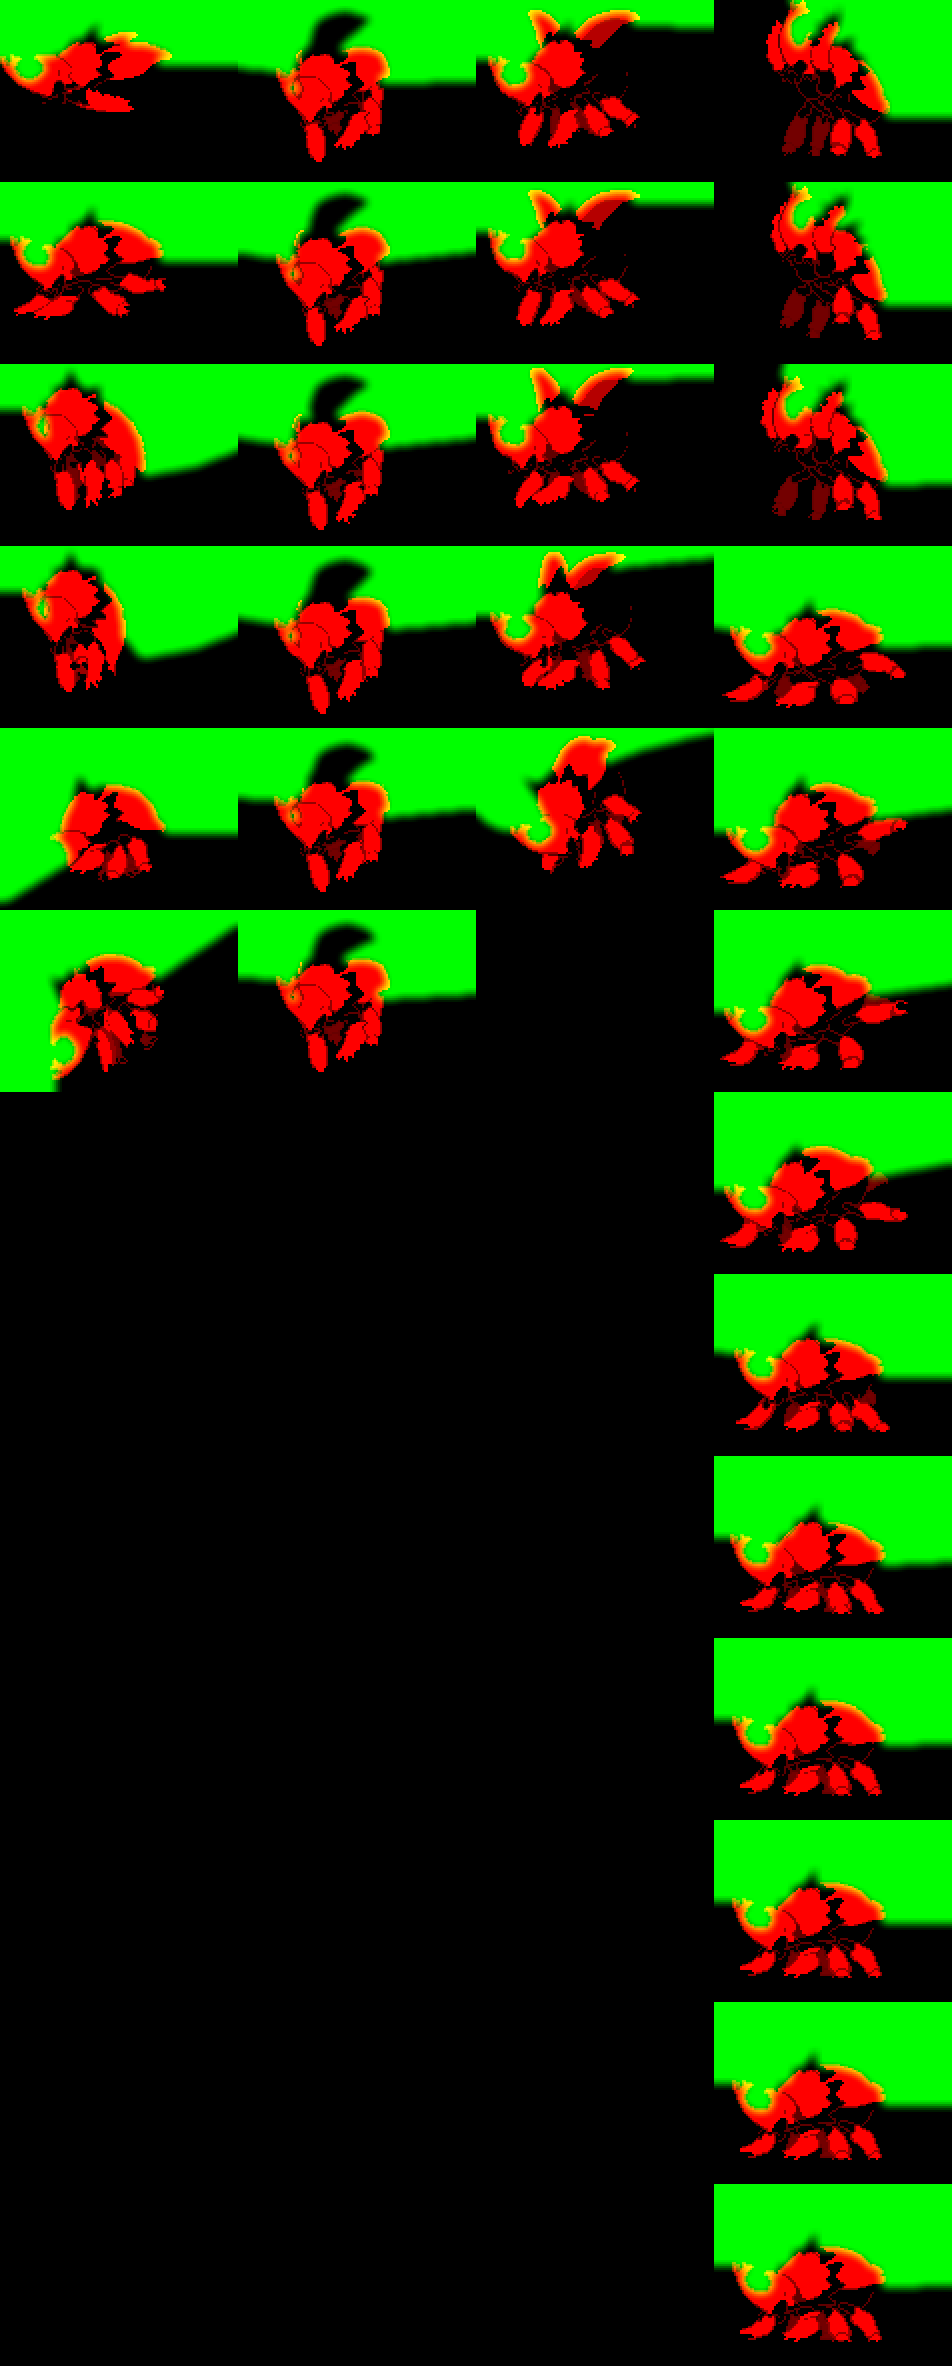
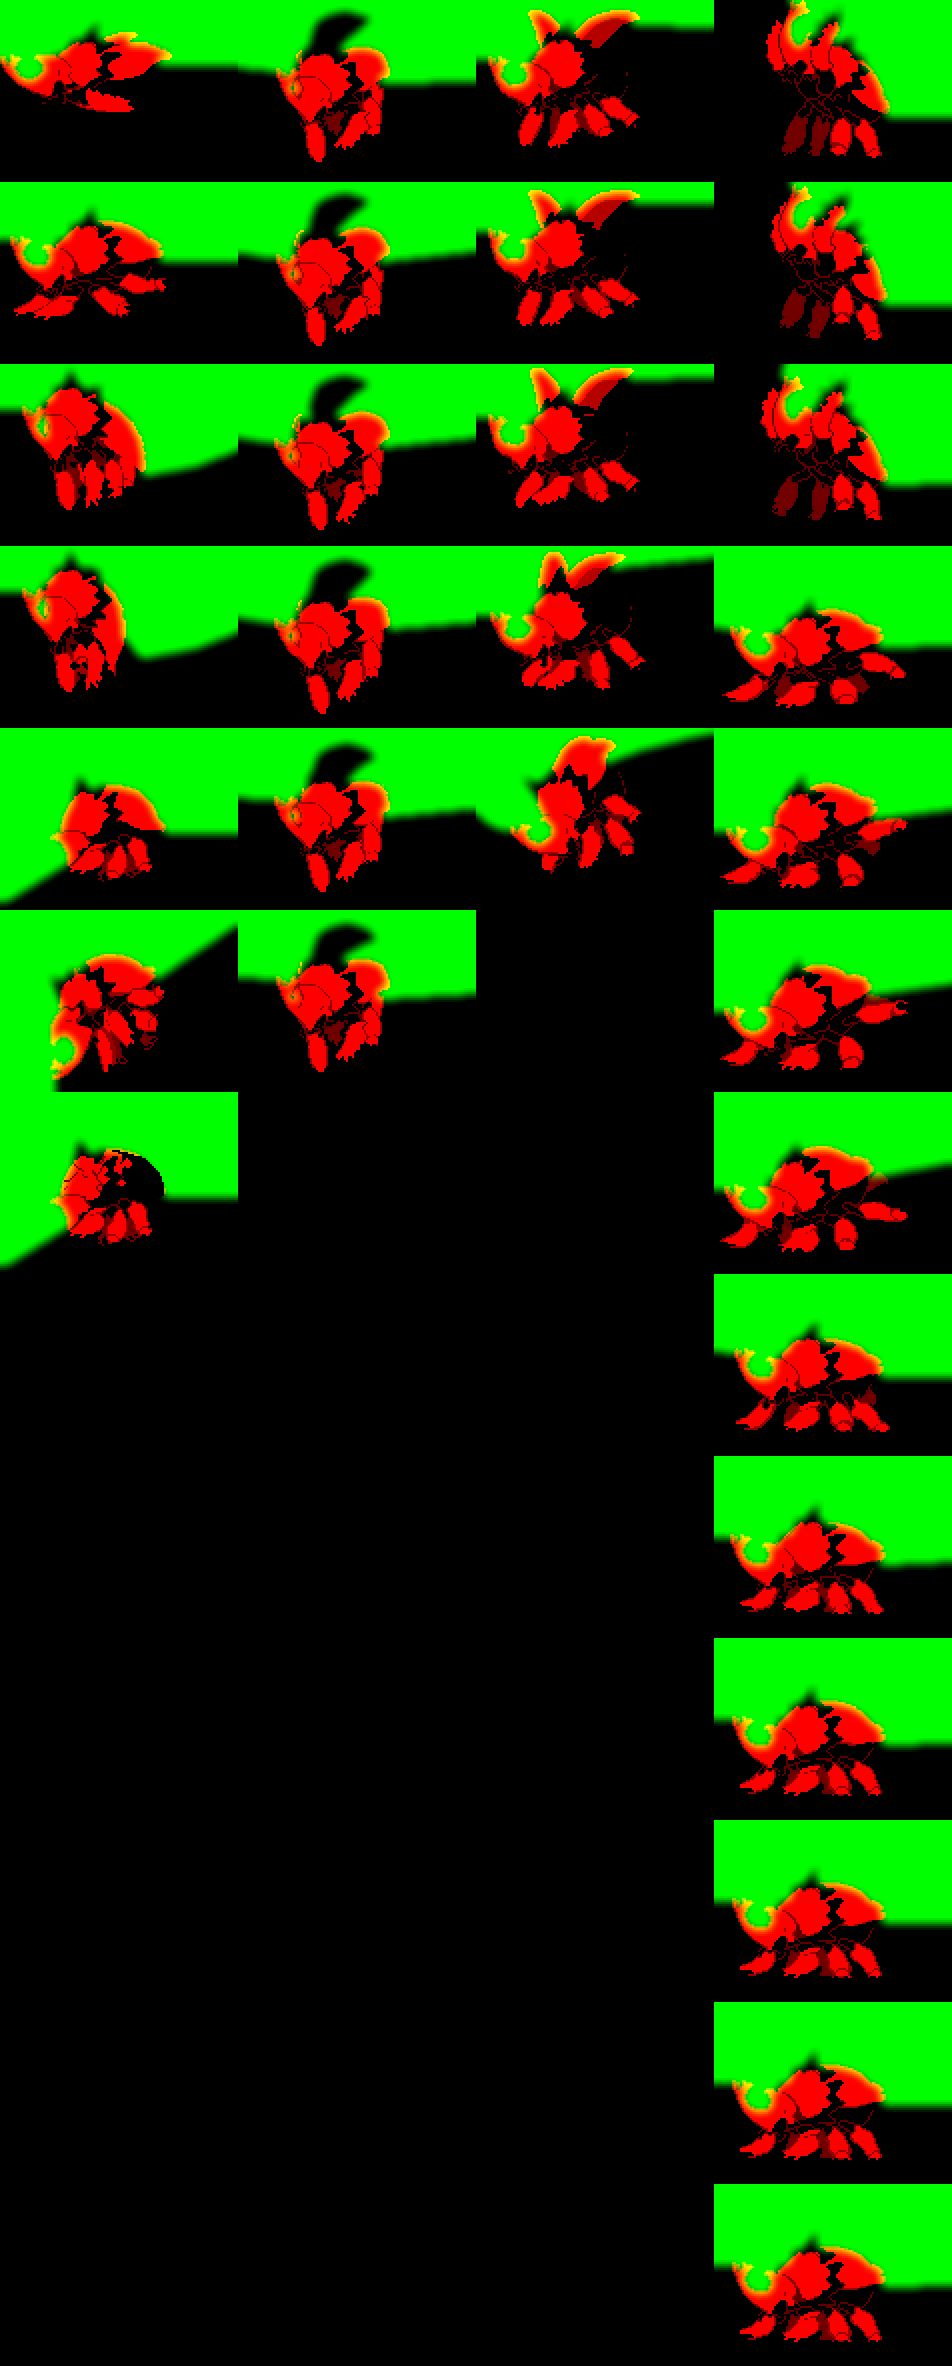
start over

Changed region(s): [[0.0, 0.4628, 0.2742, 0.5554]]

diff --git a/Content/Desert/ScarabBoss/Boss/Scarabeus.DuoFight.cs b/Content/Desert/ScarabBoss/Boss/Scarabeus.DuoFight.cs
@@ -7,6 +7,7 @@ using SpiritReforged.Common.Particle;
 using SpiritReforged.Content.Particles;
 using Terraria.Audio;
 using Terraria.DataStructures;
+using Terraria.Graphics.CameraModifiers;
 
 namespace SpiritReforged.Content.Desert.ScarabBoss.Boss;
 
@@ -110,6 +111,9 @@ public partial class Scarabeus : ModNPC
 			case "doBurnParticles":
 				((args[2] as NPC).ModNPC as Scarabeus).DoBurnParticles((Vector2)args[3], (Vector2)args[4], (float)args[5]);
 				return true;
+			case "startJoustSwoop":
+				((args[2] as NPC).ModNPC as Scarabeus).DuoFightStartAirDash((Vector2)args[3]);
+				return true;
 		}
 
 		return null;
@@ -207,7 +211,9 @@ public partial class Scarabeus : ModNPC
 	public float DuoFightTakeoff(ref bool retarget)
 	{
 		retarget = false;
-		bool jumped = currentFrame == new Point(0, 2) && Profile == PhaseTwoProfile;
+		bool jumped = (currentFrame == new Point(0, 2) || currentFrame == new Point(0, 3)) && Profile == PhaseTwoProfile;
+		bool jumpingIntoLightbulb = (bool)CrossMod.Fables.Instance.Call("spiritCrossmod.kaiju", "shouldTakeoffIntoLightbulb", scourgeFightManager);
+		float towardsFightManager = (scourgeFightManager.NPC.Center.X - NPC.Center.X) < 0 ? -1 : 1;
 
 		if (!jumped)
 		{
@@ -240,9 +246,14 @@ public partial class Scarabeus : ModNPC
 
 				SoundEngine.PlaySound(SoundID.DD2_MonkStaffSwing, NPC.Center);
 
-				SetFrame(0, 2, PhaseTwoProfile);
+				SetFrame(0, jumpingIntoLightbulb ? 2 : 3, PhaseTwoProfile);
 				NPC.velocity.Y -= 25;
-				NPC.velocity.X += NPC.direction * 5;
+
+				if (jumpingIntoLightbulb)
+					NPC.velocity.X += NPC.direction * 5;
+				else
+					NPC.velocity.X += towardsFightManager * 10;
+
 				Counter = 0;
 				NPC.noTileCollide = true;
 				NPC.noGravity = true;
@@ -252,6 +263,8 @@ public partial class Scarabeus : ModNPC
 		{
 			NPC.velocity.Y *= 0.95f;
 			trailOpacity = EaseFunction.EaseQuinticIn.Ease(1f - Counter / 20f);
+			SetFrame(0, jumpingIntoLightbulb ? 2 : 3, PhaseTwoProfile);
+
 			if (Counter >= 20)
 			{
 				if (FightingDScourge)
@@ -479,6 +492,173 @@ public partial class Scarabeus : ModNPC
 	public void DuoFightPukesplosion()
 	{
 		CrossMod.Fables.Instance.Call("spiritCrossmod.kaiju", "pukesplosion", scourgeFightManager);
+	}
+	#endregion
+
+	#region Joust Dash
+	public float DuoFightFlyFollowLeader(ref bool retarget)
+	{
+		NPC.target = scourgeFightManager.NPC.target;
+		NPC.noTileCollide = true;
+		NPC.noGravity = true;
+		NPC.rotation = NPC.velocity.X * 0.05f;
+		NPC.direction = Math.Sign(Target.Center.X - NPC.Center.X);
+		wingFrameCounter += (18f / 60f); //18 fps for wings specifically
+		UpdateFrame(0, 12, SimulatedProfile);
+
+		float speedup = Utils.GetLerpValue(40f, 100f, NPC.Distance(scourgeFightManager.NPC.Center), true);
+		float movespeed = MathHelper.Lerp(4f, 16f + (Counter / 40f) * 20f, speedup);
+		float acceleration = MathHelper.Lerp(0.03f, 0.08f, speedup);
+
+		Vector2 toLeader = (scourgeFightManager.NPC.Center - NPC.Center).SafeNormalize(Vector2.Zero) * movespeed;
+		NPC.velocity = Vector2.Lerp(NPC.velocity, toLeader, acceleration);
+
+		if (Math.Sign(NPC.velocity.X) == Math.Sign(NPC.Center.X - scourgeFightManager.NPC.Center.X))
+			NPC.velocity *= 0.97f;
+
+		NPC.velocity.X = MathHelper.Clamp(NPC.velocity.X, -18, 18);
+		NPC.velocity.Y = MathHelper.Clamp(NPC.velocity.Y, -18, 18);
+		return 1f;
+	}
+
+	public float DuoFightFlyDownToGround(ref bool retarget)
+	{
+		retarget = false;
+
+		switch (ExtraMemory)
+		{
+			//Flying down to the ground
+			case 0:
+				NPC.noTileCollide = true;
+				NPC.noGravity = true;
+				NPC.rotation = NPC.velocity.X * 0.03f;
+				wingFrameCounter += (18f / 60f); //18 fps for wings specifically
+				UpdateFrame(0, 12, SimulatedProfile);
+
+				NPC.velocity.X *= 0.98f;
+				NPC.velocity.Y += 0.6f;
+				if (NPC.velocity.Y > 12)
+					NPC.velocity.Y = 12;
+
+				if (OnTopOfTiles && NPC.velocity.Y >= 0)
+				{
+					ShiftUpToFloorLevel();
+					ExtraMemory = 1;
+					NPC.rotation = 0;
+					NPC.velocity.Y = 0;
+					NPC.velocity.X *= 0.6f;
+					SetFrame(6, 0, PhaseOneProfile);
+				}
+
+				break;
+			case 1:
+				retarget = true;
+				NPC.FaceTarget();
+
+				NPC.noTileCollide = false;
+				NPC.noGravity = false;
+
+				NPC.rotation = 0;
+				NPC.velocity.Y = 0;
+				NPC.velocity.X *= 0.85f;
+				if (UpdateFrame(6, 12, PhaseOneProfile, false) == FrameState.Stopped)
+					return GoBackToIdle();
+				break;
+		}
+
+		return 1f;
+	}
+
+	public void DuoFightStartAirDash(Vector2 dashTarget)
+	{
+		NPC.netUpdate = true;
+		CurrentState = AIState.SwoopDash;
+		ExtraMemory = 1;
+		Counter = 0f;
+		NPC.direction = (dashTarget.X - NPC.Center.X) < 0 ? -1 : 1;
+
+		//We do some funny buisness and use an arc trajectory and then flip the gravity around, so instead of doing ballistics up it does ballistics down. haha
+		float distToTargetX = (dashTarget.X - NPC.Center.X);
+		float targetHeight = FindGroundFromPositionIgnorePlatforms(dashTarget).Y;
+
+		//Cant go too low
+		targetHeight = Math.Min(targetHeight, dashTarget.Y + 160);
+
+		Vector2 ballisticTarget = new Vector2(dashTarget.X , targetHeight);
+		if (Math.Abs(distToTargetX) < 200)
+			ballisticTarget.X += 200 * NPC.direction;
+
+		//Flip target upside down
+		ballisticTarget.Y = (ballisticTarget.Y - NPC.Center.Y) * -1 + NPC.Center.Y;
+		if (ballisticTarget.Y >= NPC.Center.Y - 100)
+			ballisticTarget.Y = NPC.Center.Y - 100;
+
+		NPC.velocity = ArcVelocityHelper.GetArcVel(NPC.Center, ballisticTarget, 0.6f);
+
+		NPC.velocity.Y *= -1;
+		if (Math.Abs(NPC.velocity.X) < 9)
+			NPC.velocity.X = (NPC.velocity.X < 0 ? -1 : 1) * 9;
+	}
+	#endregion
+
+	#region Roll -> Hit Scourge -> Bounce ground pounds
+	public void DuoFightSimulateRoll(float rollSpeed)
+	{
+		Vector2 simulatedRollPosition = NPC.Center;
+		Vector2 simulatedVelocity = NPC.velocity;
+		Vector2 simulatedTargetPosition = Target.Center;
+		Vector2 simulatedTargetVelocity = Target.velocity;
+		float targetReachTime = 0f;
+
+		for (int i = 0; i < 300; i++)
+		{
+			float npcTopY = simulatedRollPosition.Y - NPC.height / 2f;
+			float npcBottomY = simulatedRollPosition.Y + NPC.height / 2f;
+
+			float interpolant = 0f;
+			float dist = Math.Abs(simulatedTargetPosition.X - simulatedRollPosition.X);
+			if (dist > 300f)
+				interpolant = 1f;
+			else if (dist > 100f)
+				interpolant = (dist - 100f) / 200f;
+
+			float adjustedRollSpeed = rollSpeed * MathHelper.Lerp(1f, 1.5f, interpolant);
+
+			simulatedVelocity.X = MathHelper.Lerp(simulatedVelocity.X, NPC.direction * adjustedRollSpeed, 0.1f);
+			float floorHeight = FindGroundFromPositionIgnorePlatforms(simulatedRollPosition, Math.Max(simulatedRollPosition.Y - 14f, Target.Bottom.Y)).Y;
+
+			//Match floor height when the slope is low enough
+			if (floorHeight > npcTopY && floorHeight < npcBottomY + 40)
+			{
+				simulatedVelocity.Y = 0;
+				simulatedRollPosition.Y = MathHelper.Lerp(simulatedRollPosition.Y, floorHeight - NPC.height * 0.5f, 0.6f);
+			}
+			//Fall if theres no floor
+			else if (!OnTopOfTiles && floorHeight > npcBottomY)
+				simulatedVelocity.Y += 0.45f;
+
+			//Bonk and transition to ground pound
+			else if (floorHeight < npcTopY)
+			{
+				simulatedTargetPosition.X -= Math.Sign(simulatedVelocity.X) * 16f;
+				break;
+			}
+
+			if ((simulatedTargetPosition.X - simulatedRollPosition.X) * NPC.direction < -500)
+				break;
+
+			simulatedRollPosition += simulatedVelocity;
+			simulatedTargetPosition += simulatedTargetVelocity;
+			targetReachTime++;
+			Dust.QuickDust(simulatedRollPosition, Color.Red);
+		}
+
+		CrossMod.Fables.Instance.Call("spiritCrossmod.kaiju", "commitRollSimOutput", scourgeFightManager, simulatedTargetPosition, targetReachTime);
+	}
+
+	public void DuoFightRollBonk()
+	{
+
 	}
 	#endregion
 

diff --git a/Content/Desert/ScarabBoss/Boss/Scarabeus.States.cs b/Content/Desert/ScarabBoss/Boss/Scarabeus.States.cs
@@ -1016,7 +1016,10 @@ public partial class Scarabeus : ModNPC
 
 		NPC.behindTiles = dashState >= 1 && dashState < 3;
 		if (Counter == 0 && dashState == 0 && !phaseTwo)
+		{
 			NPC.FaceTarget();
+			ShiftUpToFloorLevel();
+		}
 
 		switch (dashState)
 		{
@@ -1146,6 +1149,9 @@ public partial class Scarabeus : ModNPC
 						SoundEngine.PlaySound(BounceSound with { Volume = 0.4f}, NPC.Center);
 						GroundImpactVFX(1.5f);
 					}
+
+					if (FightingDScourge)
+						DuoFightSimulateRoll(rollSpeed);
 				}
 
 				break;
@@ -2192,7 +2198,7 @@ public partial class Scarabeus : ModNPC
 			//Dash
 			case 1:
 				
-				if (Main.rand.NextBool())
+				if (!Main.dedServ && Main.rand.NextBool())
 				{
 					Vector2 pos = NPC.Center + Main.rand.NextVector2Circular(NPC.width / 2, NPC.height / 2);
 
@@ -2221,16 +2227,35 @@ public partial class Scarabeus : ModNPC
 				//Fake the velocity accelerating over time WITHOUT actually multiplying it
 				//cuz thatd be too annoying and mess up the ballistics so we actually move scarab back a portion of its speed
 				float speedMultiplier = 0.1f + Math.Min(1, Counter / 14f) * 1f;
+				float slowdownWhenMovingUp = 0.98f;
+				float minYVelocity = -4;
+
+				if (FightingDScourge)
+				{
+					float speedupScale = Main.masterMode ? 1f : Main.expertMode ? 0.8f : 0.5f;
+					speedMultiplier += Counter / 34f * speedupScale;
+					slowdownWhenMovingUp = 0.99f;
+					minYVelocity = -6;
+				}
+
 				NPC.position -= NPC.velocity * (1 - speedMultiplier);
 				NPC.velocity.Y -= 0.6f * speedMultiplier;
 
 				NPC.rotation = NPC.velocity.ToRotation() + ((NPC.direction == -1) ? MathHelper.Pi : 0);
 
 				if (NPC.velocity.Y < 0)
-					NPC.velocity.X *= 0.98f;
+					NPC.velocity.X *= slowdownWhenMovingUp;
 
-				if (NPC.velocity.Y < -4)
+				if (NPC.velocity.Y < minYVelocity)
 				{
+					//Go down to the ground, since during the duo fight scarab only idles on the floor
+					if (FightingDScourge)
+					{
+						NPC.velocity.Y -= 1f;
+						ChangeState(AIState.DuoFightFlyBackToTheFloor);
+						return 0f;
+					}
+
 					if (Main.rand.NextBool())
 						return TransitionIntoRoll();
 

diff --git a/Content/Desert/ScarabBoss/Boss/Scarabeus.cs b/Content/Desert/ScarabBoss/Boss/Scarabeus.cs
@@ -198,6 +198,8 @@ public partial class Scarabeus : ModNPC
 		DuoFightTakeoff,
 		DuoFightEaten,
 		DuoFightGunkRoll,
+		DuoFightFollowLeader,
+		DuoFightFlyBackToTheFloor,
 
 		MaxValue
 	}
@@ -244,6 +246,8 @@ public partial class Scarabeus : ModNPC
 		_stateAI[(int)AIState.DuoFightTakeoff] = (Scarabeus scarab, ref bool retarget) => scarab.DuoFightTakeoff(ref retarget);
 		_stateAI[(int)AIState.DuoFightEaten] = (Scarabeus scarab, ref bool retarget) => scarab.DuoFightGrabbedByScourge(ref retarget);
 		_stateAI[(int)AIState.DuoFightGunkRoll] = (Scarabeus scarab, ref bool retarget) => scarab.RollAttack(ref retarget);
+		_stateAI[(int)AIState.DuoFightFollowLeader] = (Scarabeus scarab, ref bool retarget) => scarab.DuoFightFlyFollowLeader(ref retarget);
+		_stateAI[(int)AIState.DuoFightFlyBackToTheFloor] = (Scarabeus scarab, ref bool retarget) => scarab.DuoFightFlyDownToGround(ref retarget);
 
 		Main.npcFrameCount[Type] = 17; //The highest frame count
 		NPCID.Sets.TrailCacheLength[Type] = 8;
